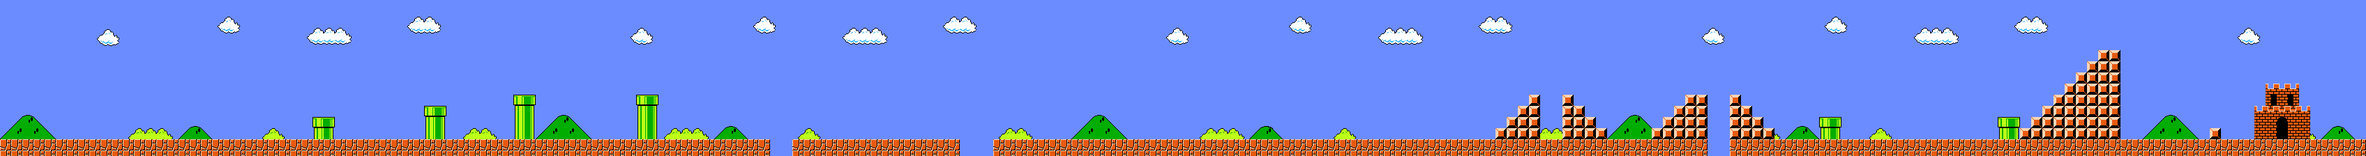
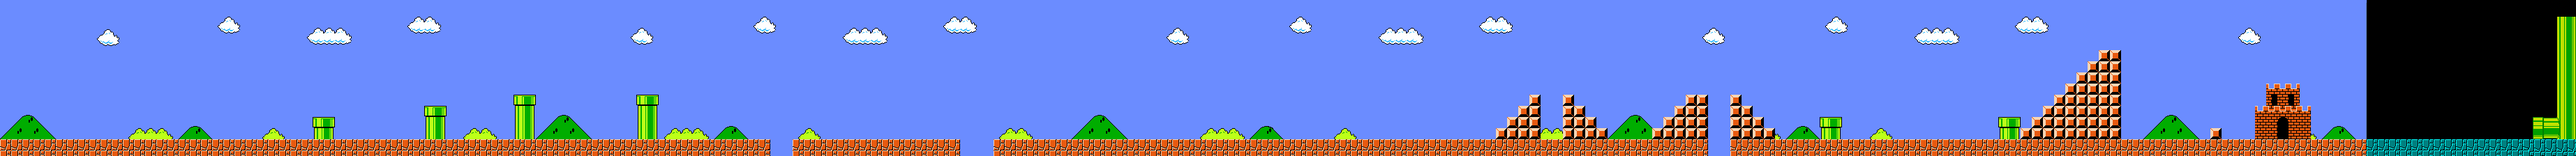
add sub map to level_1

diff --git a/source/constants.py b/source/constants.py
@@ -2,7 +2,7 @@ __author__ = 'marble_xu'
 
 DEBUG = False
 DEBUG_START_X = 110
-DEBUG_START_y = 540
+DEBUG_START_y = 538
 
 SCREEN_HEIGHT = 600
 SCREEN_WIDTH = 800
@@ -66,9 +66,8 @@ SUB_MAP = 'sub_map'
 MAP_GROUND = 'ground'
 MAP_PIPE = 'pipe'
 PIPE_TYPE_NONE = 0
-PIPE_TYPE_IN = 1
-PIPE_TYPE_OUT = 2
-PIPE_TYPE_HORIZONTAL = 3
+PIPE_TYPE_IN = 1                # can go down in the pipe
+PIPE_TYPE_HORIZONTAL = 2        # can go right in the pipe
 MAP_STEP = 'step'
 MAP_BRICK = 'brick'
 BRICK_NUM = 'brick_num'
@@ -95,10 +94,10 @@ CHECKPOINT_TYPE_ENEMY = 0
 CHECKPOINT_TYPE_FLAG = 1
 CHECKPOINT_TYPE_CASTLE = 2
 CHECKPOINT_TYPE_MUSHROOM = 3
-CHECKPOINT_TYPE_PIPE = 4
-CHECKPOINT_TYPE_PIPE_UP = 5
-CHECKPOINT_TYPE_MAP = 6 #go to another map
-CHECKPOINT_TYPE_BOSS = 7 #defeat the boss
+CHECKPOINT_TYPE_PIPE = 4        # trigger player to go right in a pipe
+CHECKPOINT_TYPE_PIPE_UP = 5     # trigger player to another map and go up out of a pipe
+CHECKPOINT_TYPE_MAP = 6         # trigger player to go to another map
+CHECKPOINT_TYPE_BOSS = 7        # defeat the boss
 MAP_FLAGPOLE = 'flagpole'
 FLAGPOLE_TYPE_FLAG = 0
 FLAGPOLE_TYPE_POLE = 1
